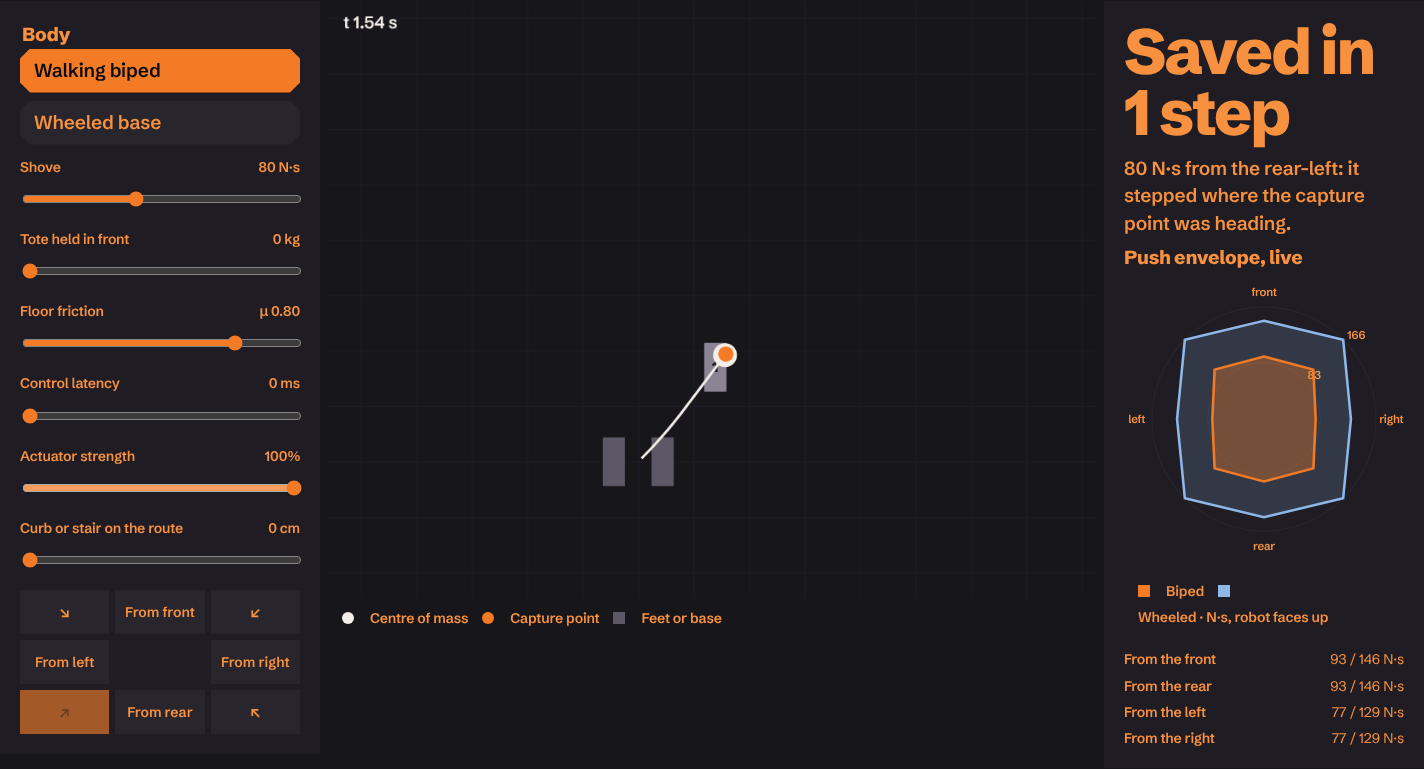
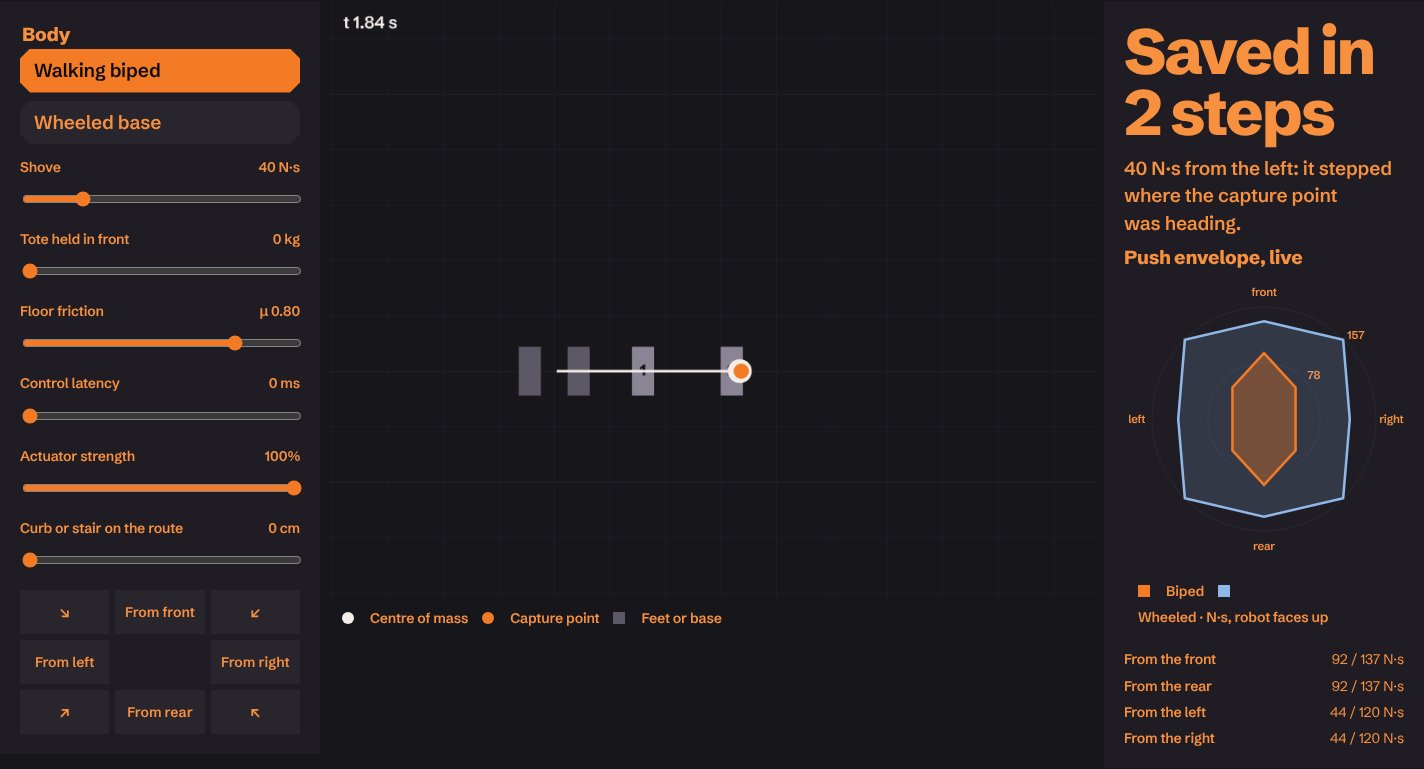
fix(site): add the missing humanoid social preview image, previews for every page, absolute og:image URLs when SITE_URL is set; refresh landing humanoid image
Claude-Session: https://claude.ai/code/session_01KErifceBCnjeR5WkvbuRTg

diff --git a/site/roles.html b/site/roles.html
@@ -5,6 +5,10 @@
 <meta name="viewport" content="width=device-width, initial-scale=1, viewport-fit=cover">
 <title>Roles · Breakpoint</title>
 <meta name="description" content="Every specialization a humanoid robotics team hires for, mapped to working code, measured results and the next thing to build in Breakpoint.">
+<meta property="og:title" content="Breakpoint, team by team">
+<meta property="og:description" content="Every specialization a humanoid robotics team hires for, mapped to working code and measured results.">
+<meta property="og:image" content="/assets/og-humanoid.png">
+<meta name="twitter:card" content="summary_large_image">
 <meta name="theme-color" content="#17161b">
 <link rel="icon" href="/assets/favicon.svg" type="image/svg+xml">
 <link rel="preconnect" href="https://fonts.googleapis.com">

diff --git a/web/roles.html b/web/roles.html
@@ -5,6 +5,10 @@
 <meta name="viewport" content="width=device-width, initial-scale=1, viewport-fit=cover">
 <title>Roles · Breakpoint</title>
 <meta name="description" content="Every specialization a humanoid robotics team hires for, mapped to working code, measured results and the next thing to build in Breakpoint.">
+<meta property="og:title" content="Breakpoint, team by team">
+<meta property="og:description" content="Every specialization a humanoid robotics team hires for, mapped to working code and measured results.">
+<meta property="og:image" content="/assets/og-humanoid.png">
+<meta name="twitter:card" content="summary_large_image">
 <meta name="theme-color" content="#17161b">
 <link rel="icon" href="/assets/favicon.svg" type="image/svg+xml">
 <link rel="preconnect" href="https://fonts.googleapis.com">

diff --git a/site/app.html b/site/app.html
@@ -5,6 +5,10 @@
 <meta name="viewport" content="width=device-width, initial-scale=1, viewport-fit=cover">
 <title>Breakpoint lab</title>
 <meta name="description" content="Describe a world in plain English or a photo, run the simulated quadruped through it, shove it, find its breaking points and its failure odds by place.">
+<meta property="og:title" content="Breakpoint lab">
+<meta property="og:description" content="Run a simulated quadruped through a world you describe, shove it, and find its breaking points.">
+<meta property="og:image" content="/assets/og.png">
+<meta name="twitter:card" content="summary_large_image">
 <meta name="theme-color" content="#17161b">
 <link rel="icon" href="/assets/favicon.svg" type="image/svg+xml">
 <link rel="preconnect" href="https://fonts.googleapis.com">

diff --git a/web/app.html b/web/app.html
@@ -5,6 +5,10 @@
 <meta name="viewport" content="width=device-width, initial-scale=1, viewport-fit=cover">
 <title>Breakpoint lab</title>
 <meta name="description" content="Describe a world in plain English or a photo, run the simulated quadruped through it, shove it, find its breaking points and its failure odds by place.">
+<meta property="og:title" content="Breakpoint lab">
+<meta property="og:description" content="Run a simulated quadruped through a world you describe, shove it, and find its breaking points.">
+<meta property="og:image" content="/assets/og.png">
+<meta name="twitter:card" content="summary_large_image">
 <meta name="theme-color" content="#17161b">
 <link rel="icon" href="/assets/favicon.svg" type="image/svg+xml">
 <link rel="preconnect" href="https://fonts.googleapis.com">

diff --git a/site/docs.html b/site/docs.html
@@ -5,6 +5,10 @@
 <meta name="viewport" content="width=device-width, initial-scale=1, viewport-fit=cover">
 <title>Breakpoint docs</title>
 <meta name="description" content="Install Breakpoint, run an audit from the command line, harden a policy, gate a release, and call the web API.">
+<meta property="og:title" content="Breakpoint docs">
+<meta property="og:description" content="Install, audit, harden, gate a release and call the web API.">
+<meta property="og:image" content="/assets/og.png">
+<meta name="twitter:card" content="summary_large_image">
 <meta name="theme-color" content="#17161b">
 <link rel="icon" href="/assets/favicon.svg" type="image/svg+xml">
 <link rel="preconnect" href="https://fonts.googleapis.com">

diff --git a/web/docs.html b/web/docs.html
@@ -5,6 +5,10 @@
 <meta name="viewport" content="width=device-width, initial-scale=1, viewport-fit=cover">
 <title>Breakpoint docs</title>
 <meta name="description" content="Install Breakpoint, run an audit from the command line, harden a policy, gate a release, and call the web API.">
+<meta property="og:title" content="Breakpoint docs">
+<meta property="og:description" content="Install, audit, harden, gate a release and call the web API.">
+<meta property="og:image" content="/assets/og.png">
+<meta name="twitter:card" content="summary_large_image">
 <meta name="theme-color" content="#17161b">
 <link rel="icon" href="/assets/favicon.svg" type="image/svg+xml">
 <link rel="preconnect" href="https://fonts.googleapis.com">

diff --git a/site/index.html b/site/index.html
@@ -206,7 +206,7 @@
   </div>
   <div class="legs-pic">
     <figure class="legs-shot">
-      <img src="/assets/img/humanoid-lab.png" width="1424" height="769" alt="The humanoid push lab: controls, a top view of the robot stepping to recover from an 80 N·s shove, and its push envelope against a wheeled base" loading="lazy">
+      <img src="/assets/img/humanoid-lab.png" width="1424" height="769" alt="The humanoid push lab: controls, a top view of the robot taking two steps to recover from a 40 N·s shove from its left, and its push envelope against a wheeled base" loading="lazy">
     </figure>
   </div>
 </section>

diff --git a/web/index.html b/web/index.html
@@ -206,7 +206,7 @@
   </div>
   <div class="legs-pic">
     <figure class="legs-shot">
-      <img src="/assets/img/humanoid-lab.png" width="1424" height="769" alt="The humanoid push lab: controls, a top view of the robot stepping to recover from an 80 N·s shove, and its push envelope against a wheeled base" loading="lazy">
+      <img src="/assets/img/humanoid-lab.png" width="1424" height="769" alt="The humanoid push lab: controls, a top view of the robot taking two steps to recover from a 40 N·s shove from its left, and its push envelope against a wheeled base" loading="lazy">
     </figure>
   </div>
 </section>

diff --git a/site/humanoid.html b/site/humanoid.html
@@ -9,6 +9,7 @@
 <meta property="og:title" content="Humanoid push lab">
 <meta property="og:description" content="Capture-point push recovery for a full-size humanoid: biped vs wheeled base, live in the browser.">
 <meta property="og:image" content="/assets/og-humanoid.png">
+<meta name="twitter:card" content="summary_large_image">
 <link rel="icon" href="/assets/favicon.svg" type="image/svg+xml">
 <link rel="preconnect" href="https://fonts.googleapis.com">
 <link rel="preconnect" href="https://fonts.gstatic.com" crossorigin>

diff --git a/web/humanoid.html b/web/humanoid.html
@@ -9,6 +9,7 @@
 <meta property="og:title" content="Humanoid push lab">
 <meta property="og:description" content="Capture-point push recovery for a full-size humanoid: biped vs wheeled base, live in the browser.">
 <meta property="og:image" content="/assets/og-humanoid.png">
+<meta name="twitter:card" content="summary_large_image">
 <link rel="icon" href="/assets/favicon.svg" type="image/svg+xml">
 <link rel="preconnect" href="https://fonts.googleapis.com">
 <link rel="preconnect" href="https://fonts.gstatic.com" crossorigin>

diff --git a/scripts/build_site.py b/scripts/build_site.py
@@ -13,6 +13,7 @@ from __future__ import annotations
 
 import json
 import os
+import re
 import shutil
 import sys
 from pathlib import Path
@@ -87,7 +88,7 @@ def write_seo(dist: Path, site_url: str | None) -> None:
                        f'<urlset xmlns="http://www.sitemaps.org/schemas/sitemap/0.9">\n{urls}</urlset>\n')
     robots.write_text(f"User-agent: *\nAllow: /\nSitemap: {base}/sitemap.xml\n")
     for page in dist.glob("*.html"):
-        page.write_text(page.read_text().replace('content="/assets/og.png"', f'content="{base}/assets/og.png"'))
+        page.write_text(re.sub(r'(property="og:image" content=")/', rf"\g<1>{base}/", page.read_text()))
 
 
 def main(out: Path | None = None, replays: bool = True) -> int:
